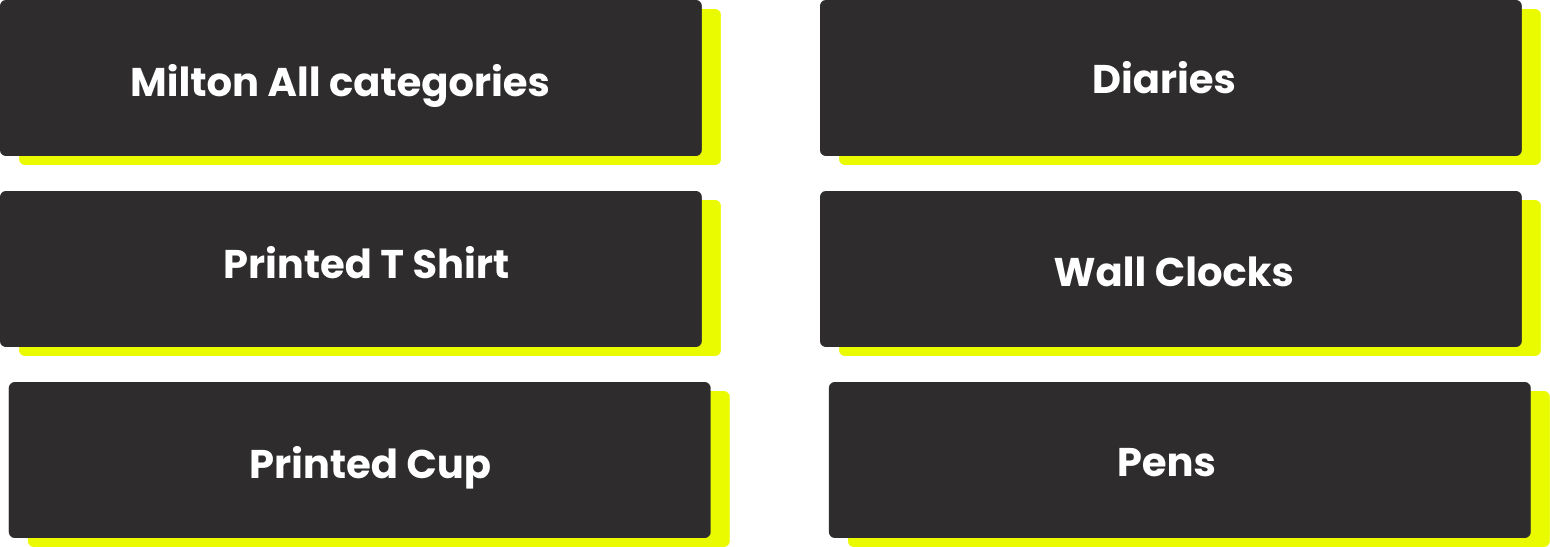
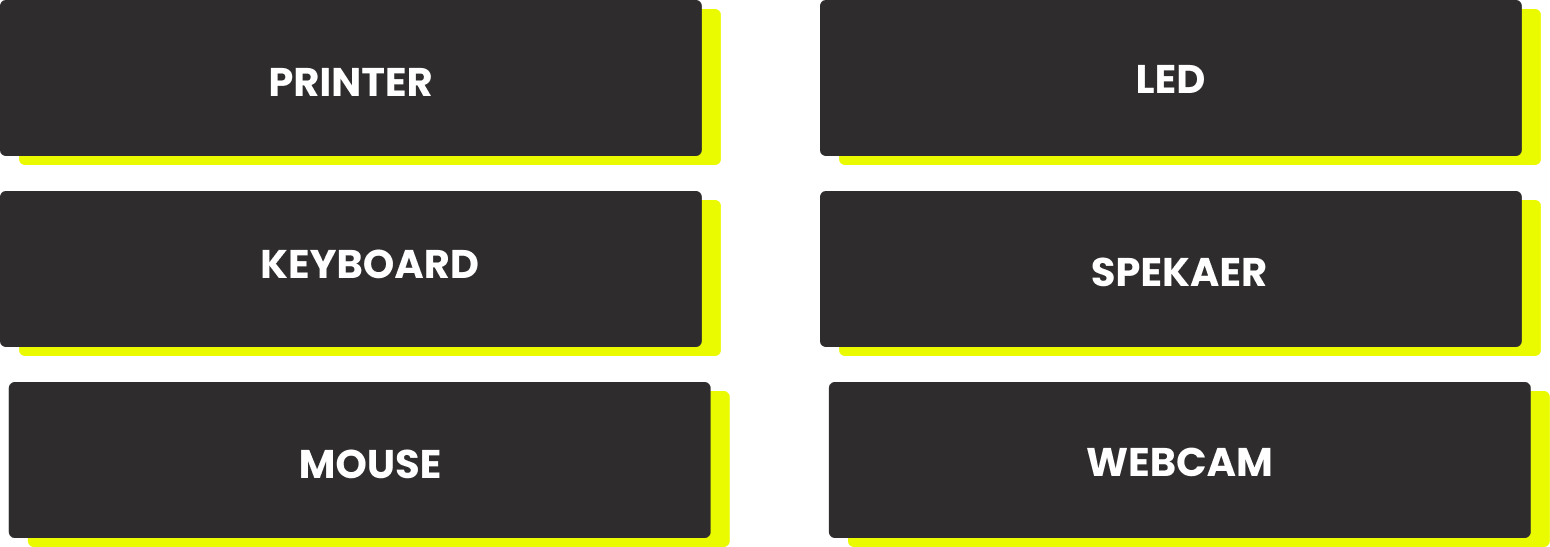
Add files via upload

diff --git a/index.html b/index.html
@@ -343,6 +343,11 @@
     </div>
 
 
+    <div class="abss" style="text-align: center;margin-top: 1em;font-family: 'Poppins';">
+      We take pride in offering premium office stationery and supplies, covering an extensive selection of items such as paper, files, folders, pens, markers, and essential office tools like whiteboards and calculators. Our goal is to fulfill all your business and organizational needs with superior products, ensuring that your workspace remains efficient and convenient. Emphasizing quality and variety, we are your trusted source for all stationery requirements, whether for everyday tasks or special projects.
+    </div>
+
+
  
 
   </div>
@@ -354,30 +359,7 @@
   <button onclick='window.location.href="/ctl.pdf"' style="gap:0.5em;border-radius:4px;display: flex;align-items:center;padding:0.5em;background-color:rgb(37, 207, 37);font-family:poppins;color:white" id="services"> Download Brohcure <svg xmlns="http://www.w3.org/2000/svg" width="2em" height="2em" viewBox="0 0 24 24"><path fill="currentColor" d="m12 15.577l-3.539-3.538l.708-.72L11.5 13.65V5h1v8.65l2.33-2.33l.709.719zM6.616 19q-.691 0-1.153-.462T5 17.384v-2.423h1v2.423q0 .231.192.424t.423.192h10.77q.23 0 .423-.192t.192-.424v-2.423h1v2.423q0 .691-.462 1.153T17.384 19z"/></svg></button>
 </div>
 
-<h1  style="display: flex;justify-content:center;padding-top:1em;font-size:2rem;">STATIONERY</h1>
-<style>
-  h1{
-    font-family: "Playwrite GB S", cursive;
-  }
-</style>
-<div class="ddd" style="display: flex;justify-content:center">
-  <div class="se1" style="display: flex;justify-content:center;width:100%;background-color:rgb(255, 255, 255);padding:1em;max-width:1100px;flex-wrap:wrap;gap:1em;margin-top:1em"> 
-    <div class="imgholder" style="max-width: 500px;display:flex;justify-content:center;">
-      <img src="se1.png" alt="" style="width: 100%;object-fit:contain" >
 
-    </div>
-    <div class="lihold" style="max-width: 500px;">
-      
-  <img src="se1r.png" alt="">
-    </div>
-
-
- 
-
-  </div>
-
-
-</div>
   
 <div class="bdd"><img src="bar.png" alt=""></div>
 
@@ -434,6 +416,31 @@
 </div>
    
 
+<h1  style="display: flex;justify-content:center;padding-top:1em;font-size:2rem;">STATIONERY</h1>
+<style>
+  h1{
+    font-family: "Playwrite GB S", cursive;
+  }
+</style>
+<div class="ddd" style="display: flex;justify-content:center">
+  <div class="se1" style="display: flex;justify-content:center;width:100%;background-color:rgb(255, 255, 255);padding:1em;max-width:1100px;flex-wrap:wrap;gap:1em;margin-top:1em"> 
+    <div class="imgholder" style="max-width: 500px;display:flex;justify-content:center;">
+      <img src="se1.png" alt="" style="width: 100%;object-fit:contain" >
+
+    </div>
+    <div class="lihold" style="max-width: 500px;">
+      
+  <img src="se1r.png" alt="">
+    </div>
+
+
+ 
+
+  </div>
+
+
+</div>
+
 
 <div class="bdd"><img src="bar.png" alt=""></div>
 
@@ -463,7 +470,7 @@
 <div class="bdd"><img src="bar.png" alt=""></div>
 
 
-<h1  style="display: flex;justify-content:center;padding-top:1em;font-size:2rem;text-align:center">GIFT PRODUCTS</h1>
+<h1  style="display: flex;justify-content:center;padding-top:1em;font-size:2rem;text-align:center">IT ACCESSORIES</h1>
 <div class="ddd" style="display: flex;justify-content:center">
   <div class="se1" style="align-items:center;display: flex;justify-content:center;width:100%;background-color:rgb(255, 255, 255);padding:1em;max-width:1100px;flex-wrap:wrap;gap:1em;margin-top:1em"> 
     <div class="imgholder" style="max-width: 500px;display:flex;justify-content:center;">
@@ -875,13 +882,13 @@ details[open] .control-icon-expand {
       </p>
       <p class="text-center">Connect us on</p>
       <div class="flex space-x-4">
-          <a href="https://www.facebook.com//">
+          <a href="https://www.facebook.com/onesourcesolution.in/">
           <svg xmlns="http://www.w3.org/2000/svg" width="1.3em" height="1.3em" viewBox="0 0 256 256">
               <path fill="#1877f2" d="M256 128C256 57.308 198.692 0 128 0S0 57.308 0 128c0 63.888 46.808 116.843 108 126.445V165H75.5v-37H108V99.8c0-32.08 19.11-49.8 48.348-49.8C170.352 50 185 52.5 185 52.5V84h-16.14C152.959 84 148 93.867 148 103.99V128h35.5l-5.675 37H148v89.445c61.192-9.602 108-62.556 108-126.445" />
               <path fill="#fff" d="m177.825 165l5.675-37H148v-24.01C148 93.866 152.959 84 168.86 84H185V52.5S170.352 50 156.347 50C127.11 50 108 67.72 108 99.8V128H75.5v37H108v89.445A129 129 0 0 0 128 256a129 129 0 0 0 20-1.555V165z" />
           </svg>
       </a>
-         <a href="https://www.instagram.com/"><svg xmlns="http://www.w3.org/2000/svg" width="1.3em" height="1.3em" viewBox="0 0 256 256">
+         <a href="https://www.instagram.com/onesourcesolution.in"><svg xmlns="http://www.w3.org/2000/svg" width="1.3em" height="1.3em" viewBox="0 0 256 256">
               <g fill="none">
                   <rect width="256" height="256" fill="url(#skillIconsInstagram0)" rx="60" />
                   <rect width="256" height="256" fill="url(#skillIconsInstagram1)" rx="60" />
@@ -918,13 +925,7 @@ details[open] .control-icon-expand {
               <path fill="#fff" d="M96.678 74.148c-2.386-5.303-4.897-5.41-7.166-5.503c-1.858-.08-3.982-.074-6.104-.074c-2.124 0-5.575.799-8.492 3.984c-2.92 3.188-11.148 10.892-11.148 26.561s11.413 30.813 13.004 32.94c1.593 2.123 22.033 35.307 54.405 48.073c26.904 10.609 32.379 8.499 38.218 7.967c5.84-.53 18.844-7.702 21.497-15.139c2.655-7.436 2.655-13.81 1.859-15.142c-.796-1.327-2.92-2.124-6.105-3.716s-18.844-9.298-21.763-10.361c-2.92-1.062-5.043-1.592-7.167 1.597c-2.124 3.184-8.223 10.356-10.082 12.48c-1.857 2.129-3.716 2.394-6.9.801c-3.187-1.598-13.444-4.957-25.613-15.806c-9.468-8.442-15.86-18.867-17.718-22.056c-1.858-3.184-.199-4.91 1.398-6.497c1.431-1.427 3.186-3.719 4.78-5.578c1.588-1.86 2.118-3.187 3.18-5.311c1.063-2.126.531-3.986-.264-5.579c-.798-1.593-6.987-17.343-9.819-23.64" />
           </svg>
       </a>
-          <a href="https://www.linkedin.com/in/"><svg xmlns="http://www.w3.org/2000/svg" width="1em" height="1em" viewBox="0 0 256 256">
-              <g fill="none">
-                  <rect width="256" height="256" fill="#fff" rx="60" />
-                  <rect width="256" height="256" fill="#0a66c2" rx="60" />
-                  <path fill="#fff" d="M184.715 217.685h29.27a4 4 0 0 0 4-3.999l.015-61.842c0-32.323-6.965-57.168-44.738-57.168c-14.359-.534-27.9 6.868-35.207 19.228a.32.32 0 0 1-.595-.161V101.66a4 4 0 0 0-4-4h-27.777a4 4 0 0 0-4 4v112.02a4 4 0 0 0 4 4h29.268a4 4 0 0 0 4-4v-55.373c0-15.657 2.97-30.82 22.381-30.82c19.135 0 19.383 17.916 19.383 31.834v54.364a4 4 0 0 0 4 4M38 59.628c0 11.864 9.767 21.626 21.632 21.626c11.862-.001 21.623-9.769 21.623-21.631C81.253 47.761 71.491 38 59.628 38C47.762 38 38 47.763 38 59.627m6.959 158.058h29.307a4 4 0 0 0 4-4V101.66a4 4 0 0 0-4-4H44.959a4 4 0 0 0-4 4v112.025a4 4 0 0 0 4 4" />
-              </g>
-          </svg></a>
+         
       </div>
     </div>
     <div class="bg-black text-white text-center py-4">© 2024, Sarthak Business System</div>
